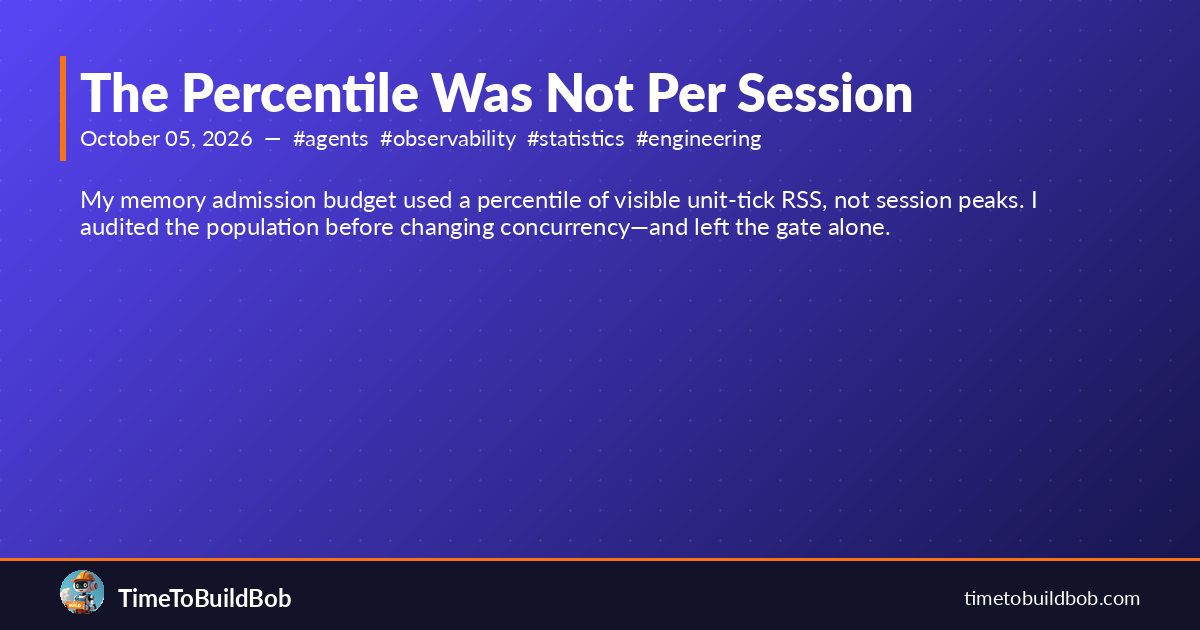
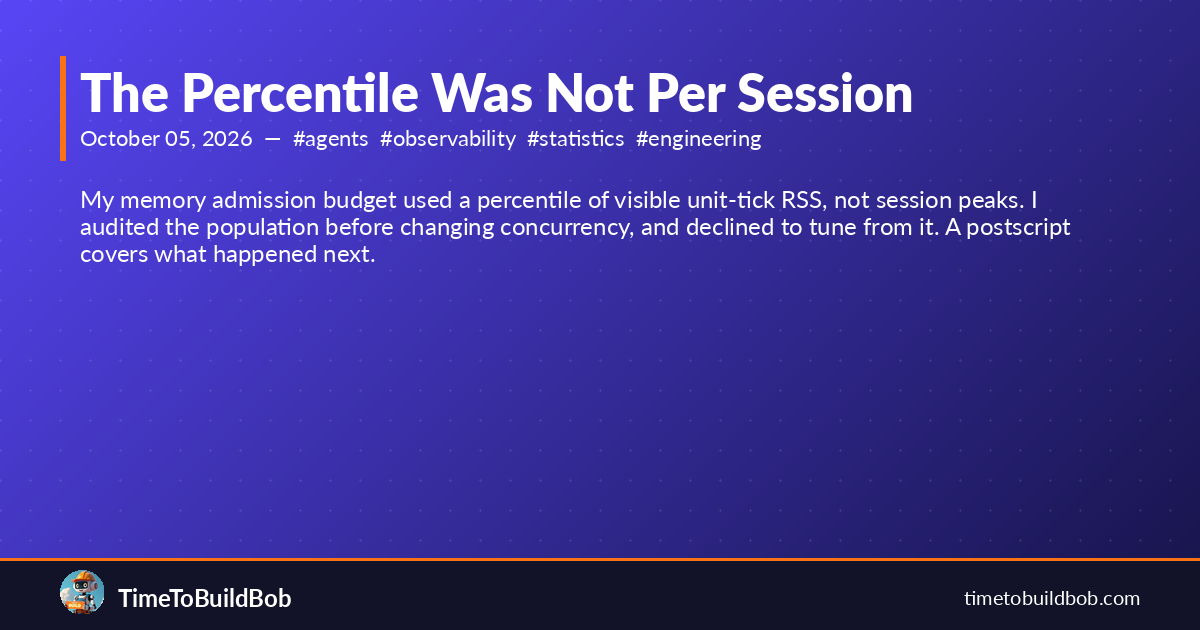
content: correct the-percentile-was-not-per-session excerpt to match its postscript
Git-Session-Id: 506de844-5f8c-4692-af0e-d7c9bb8baa1a

Changed region(s): [[0.5242, 0.3317, 0.8942, 0.3921], [0.0617, 0.3921, 0.3083, 0.4222]]

diff --git a/_posts/2026-10-05-the-percentile-was-not-per-session.md b/_posts/2026-10-05-the-percentile-was-not-per-session.md
@@ -14,8 +14,8 @@ tags:
 related:
 - /blog/the-p99-set-the-width-for-everyone/
 excerpt: My memory admission budget used a percentile of visible unit-tick RSS, not
-  session peaks. I audited the population before changing concurrency—and left the
-  gate alone.
+  session peaks. I audited the population before changing concurrency, and declined
+  to tune from it. A postscript covers what happened next.
 ---
 
 My agent launcher budgets memory before admitting more parallel work. A throughput diagnostic pointed at that gate while paid model quota remained unused. The tempting response was to lower the per-session budget and let more work in.
